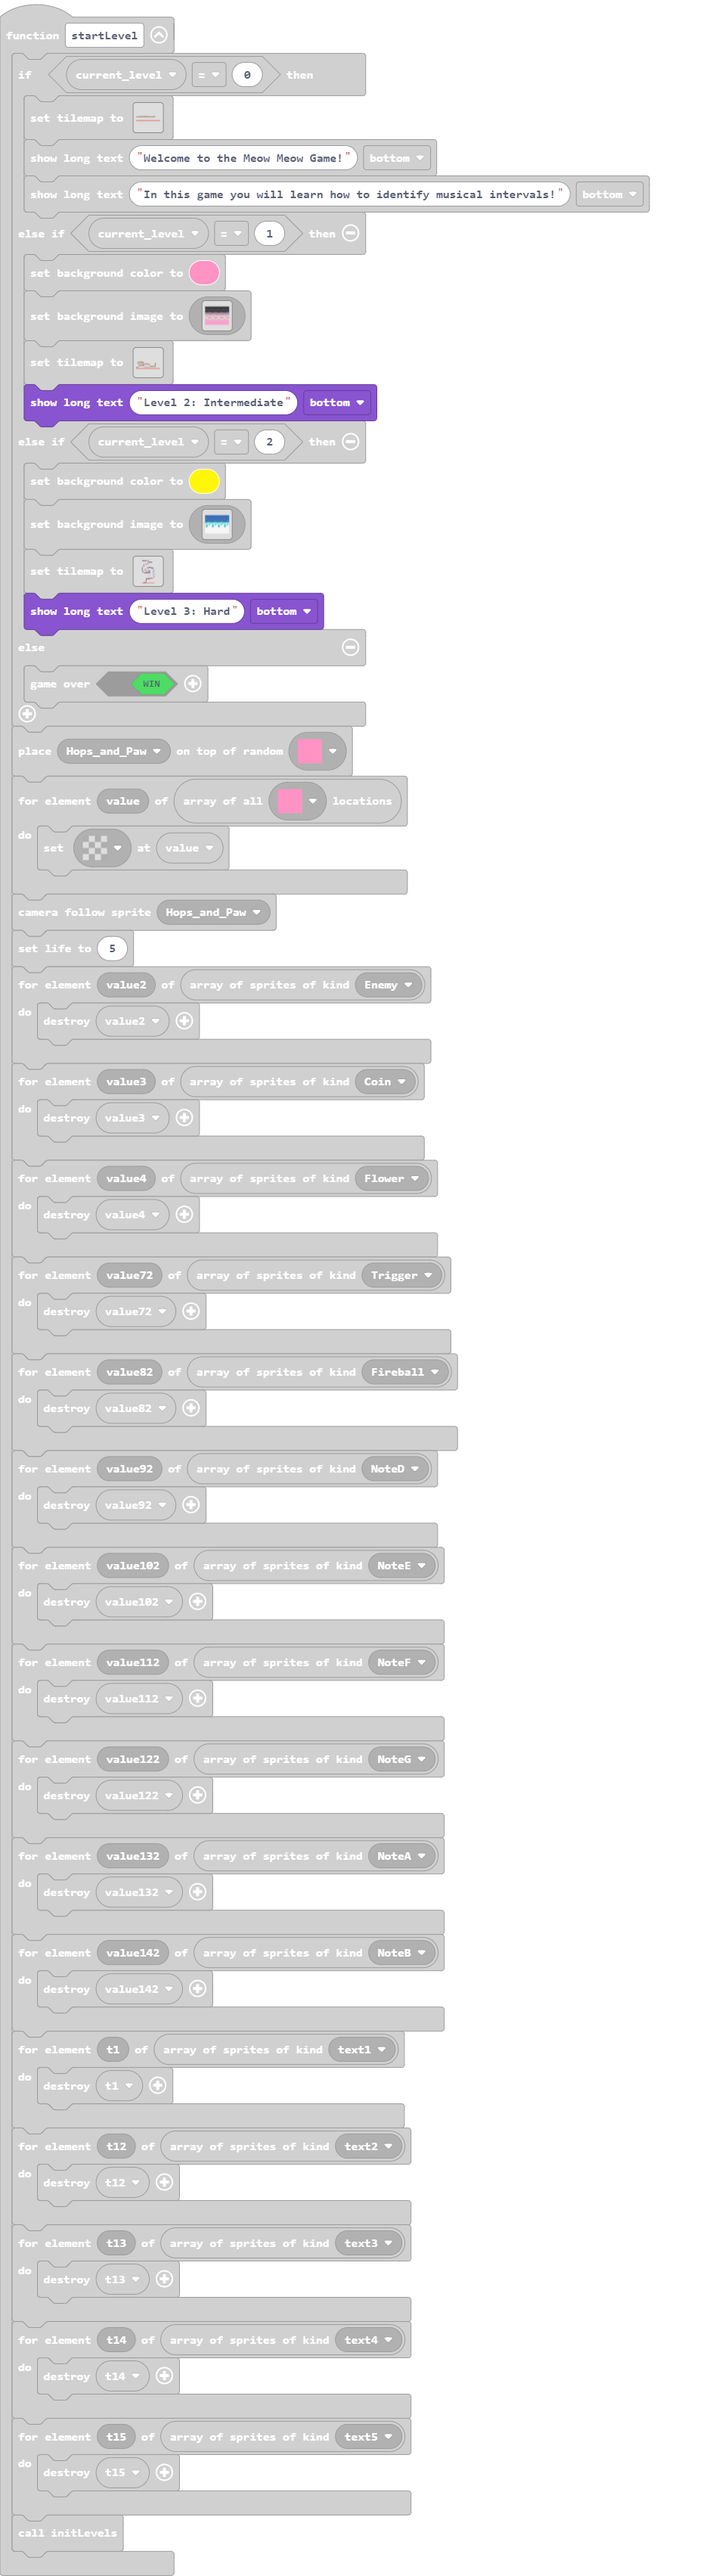
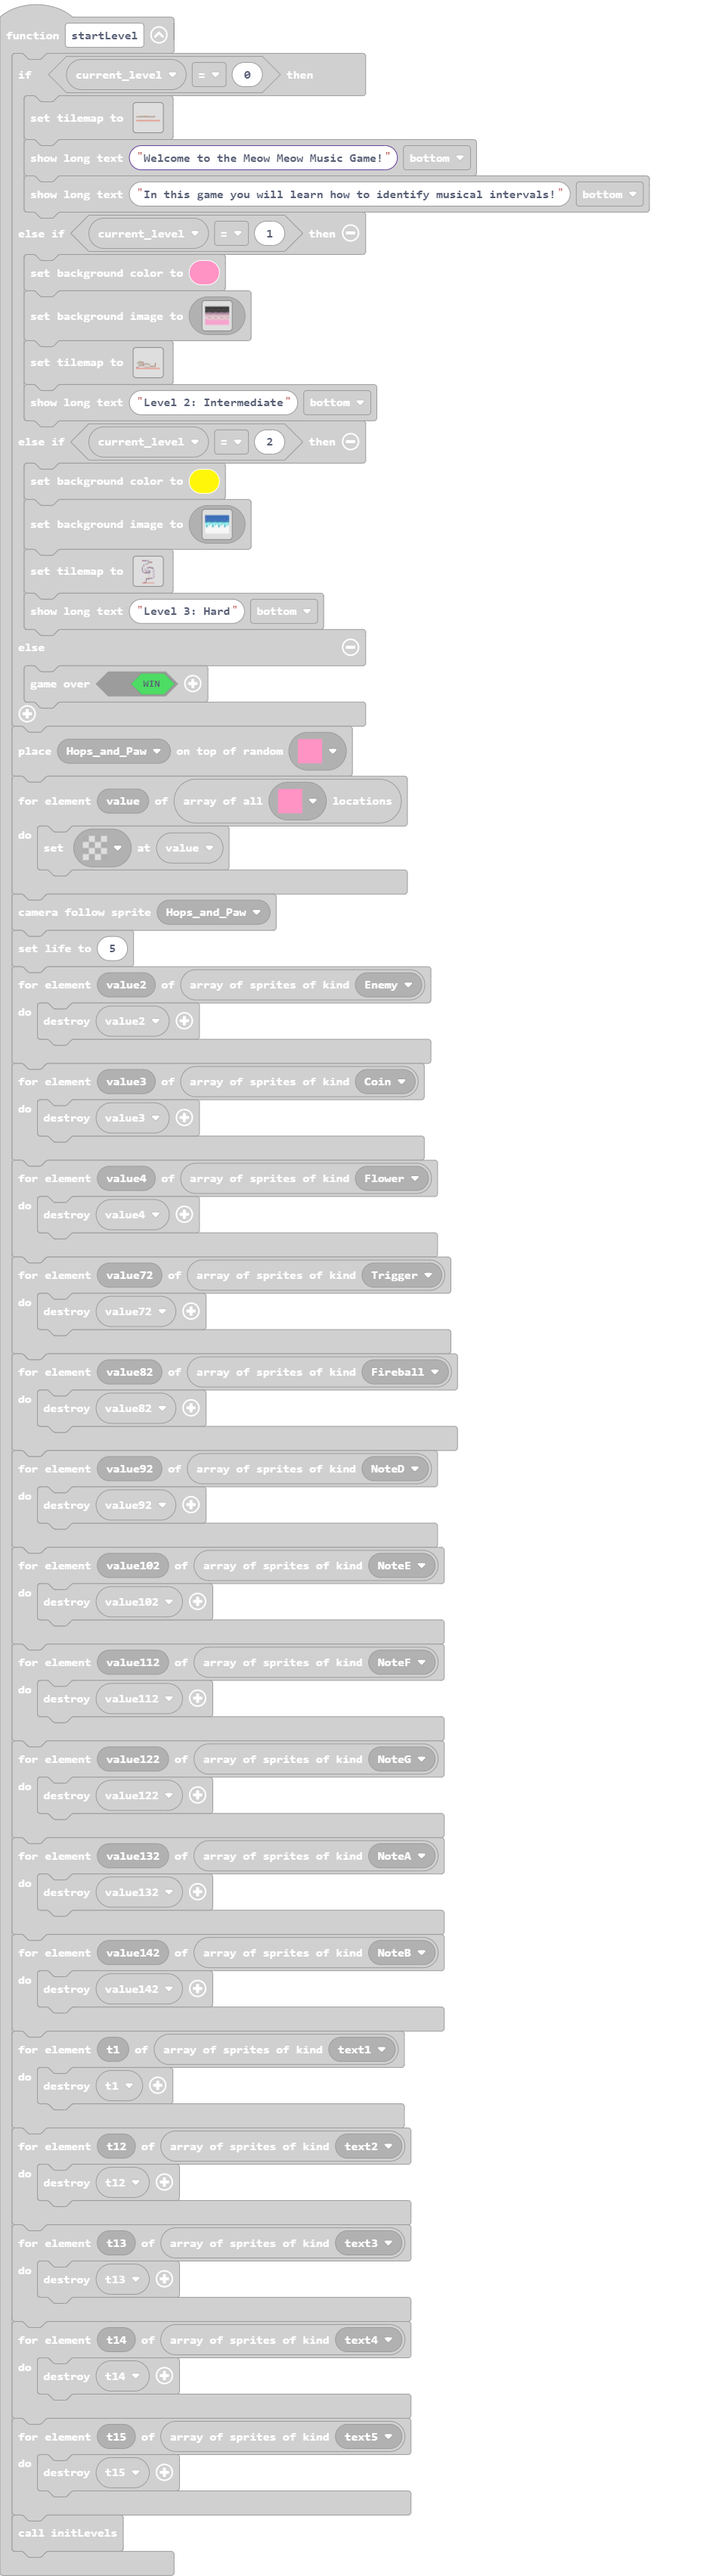
Update main.blocks, main.ts

diff --git a/main.ts b/main.ts
@@ -906,7 +906,7 @@ sprites.onOverlap(SpriteKind.Player, SpriteKind.Trigger, function (sprite, other
 function startLevel () {
     if (current_level == 0) {
         tiles.setTilemap(tilemap`level2`)
-        game.showLongText("Welcome to the Meow Meow Game!", DialogLayout.Bottom)
+        game.showLongText("Welcome to the Meow Meow Music Game!", DialogLayout.Bottom)
         game.showLongText("In this game you will learn how to identify musical intervals!", DialogLayout.Bottom)
     } else if (current_level == 1) {
         scene.setBackgroundColor(3)
